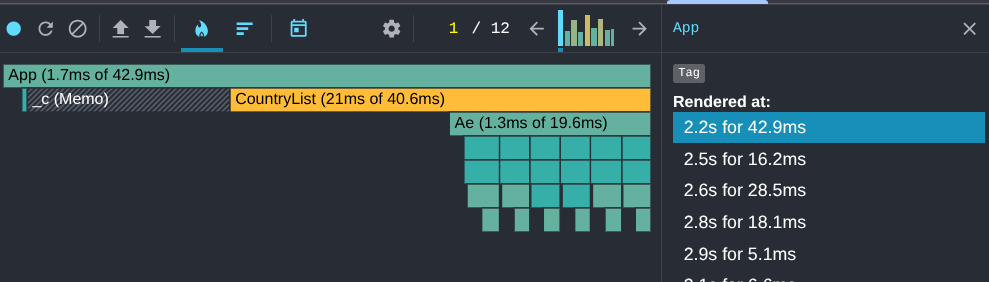
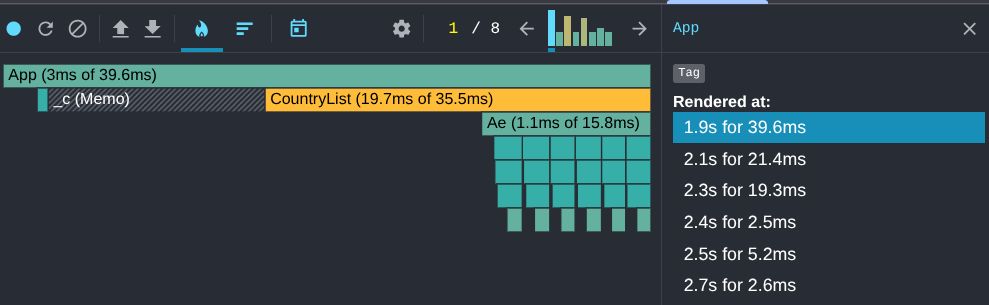
docs: new performance profiling

diff --git a/PERFORMANCE.md b/PERFORMANCE.md
@@ -30,34 +30,34 @@
 
 ### Interaction A: Sort countries
 
-- **Commit duration**: 102 ms
-- **Render duration**: 101 ms
+- **Commit duration**: 82 ms
+- **Render duration**: 80 ms
 - **Screenshot**: ![alt text](performance-starter/screenshots/optimized/image.png)
 
 ### Interaction B: Search countries
 
-- **Commit duration**: 123 ms
-- **Render duration**: 117 ms
+- **Commit duration**: 94 ms
+- **Render duration**: 91  ms
 - **Screenshot**: ![alt text](performance-starter/screenshots/optimized/image-1.png)
 
 ### Interaction C: Change year
 
-- **Commit duration**: 171.4 ms
-- **Render duration**: 169.1 ms
-- **Screenshot**: ![alt text](performance-starter/screenshots/optimized/image-6.png)
+- **Commit duration**: 114 ms
+- **Render duration**: 112 ms
+- **Screenshot**: ![alt text](performance-starter/screenshots/optimized/image-2.png)
 
 ### Interaction D: Toggle column
 
-- **Commit duration**: 58.4 ms
-- **Render duration**: 56.4 ms
-- **Screenshot**: ![alt text](performance-starter/screenshots/optimized/image-7.png)
+- **Commit duration**: 53 ms
+- **Render duration**: 53 ms
+- **Screenshot**: ![alt text](performance-starter/screenshots/optimized/image-3.png)
 
 ## Summary of Improvements
 
 | Interaction      | Baseline (ms) | Optimized (ms) | Improvement |
 | ---------------- | ------------- | -------------- | ----------- |
-| Sort countries   | 223        | 102         | -54%     |
-| Search countries | 213        | 123         | -42%     |
-| Change year      | 242        | 171         | -29%     |
-| Toggle column    | 695        | 58          | -91%     |
-| **Average**      | **343**    | **113**     | **-67%** |
+| Sort countries   | 223        | 82          | -63%     |
+| Search countries | 213        | 94          | -55%     |
+| Change year      | 242        | 114         | -52%     |
+| Toggle column    | 695        | 53          | -92%     |
+| **Average**      | **343**    | **86**     | **-75%** |
